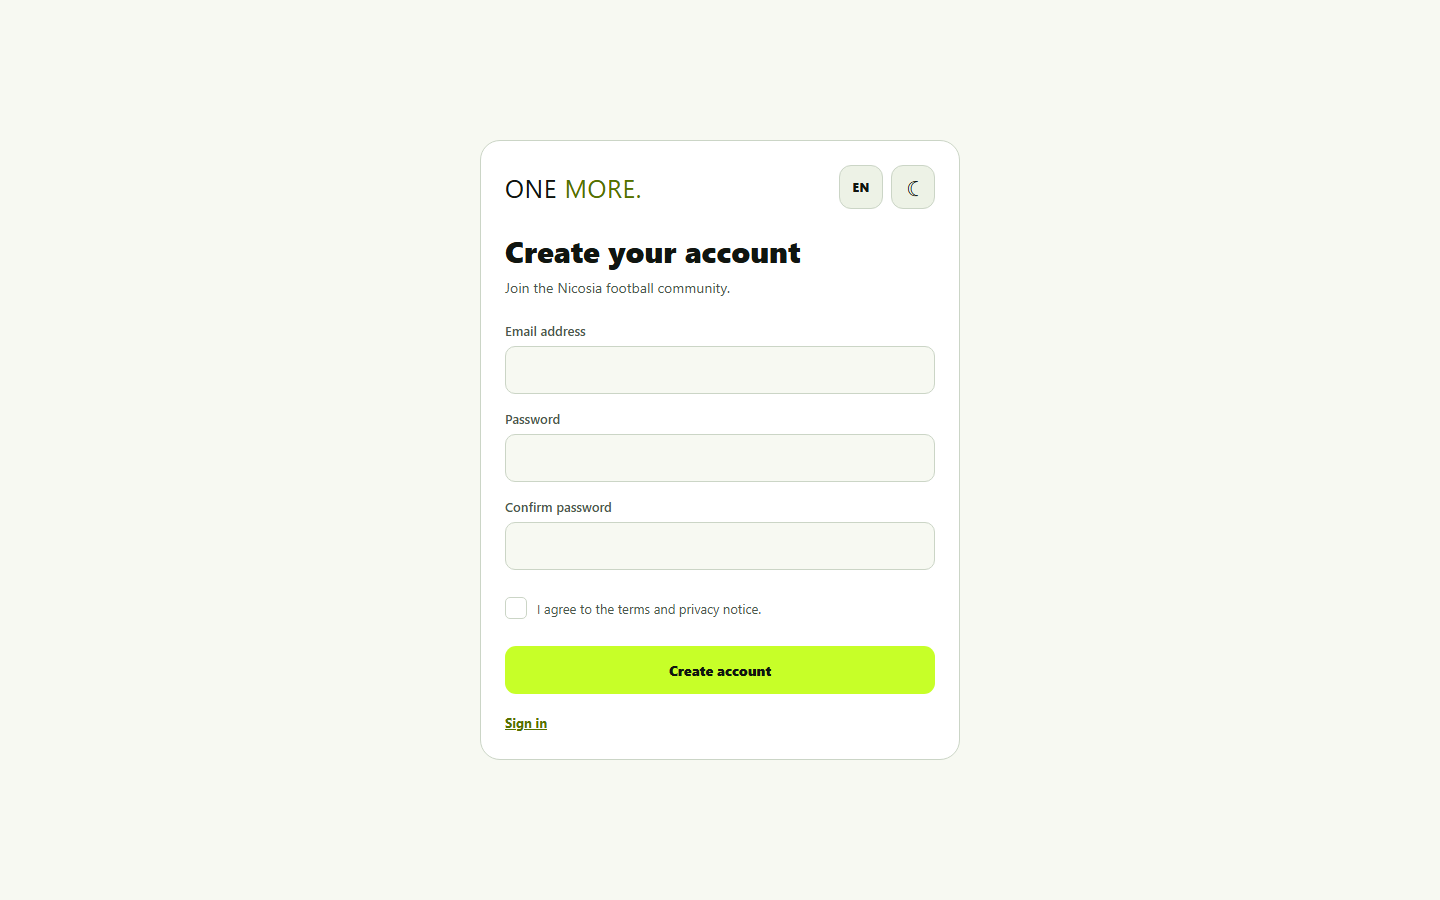
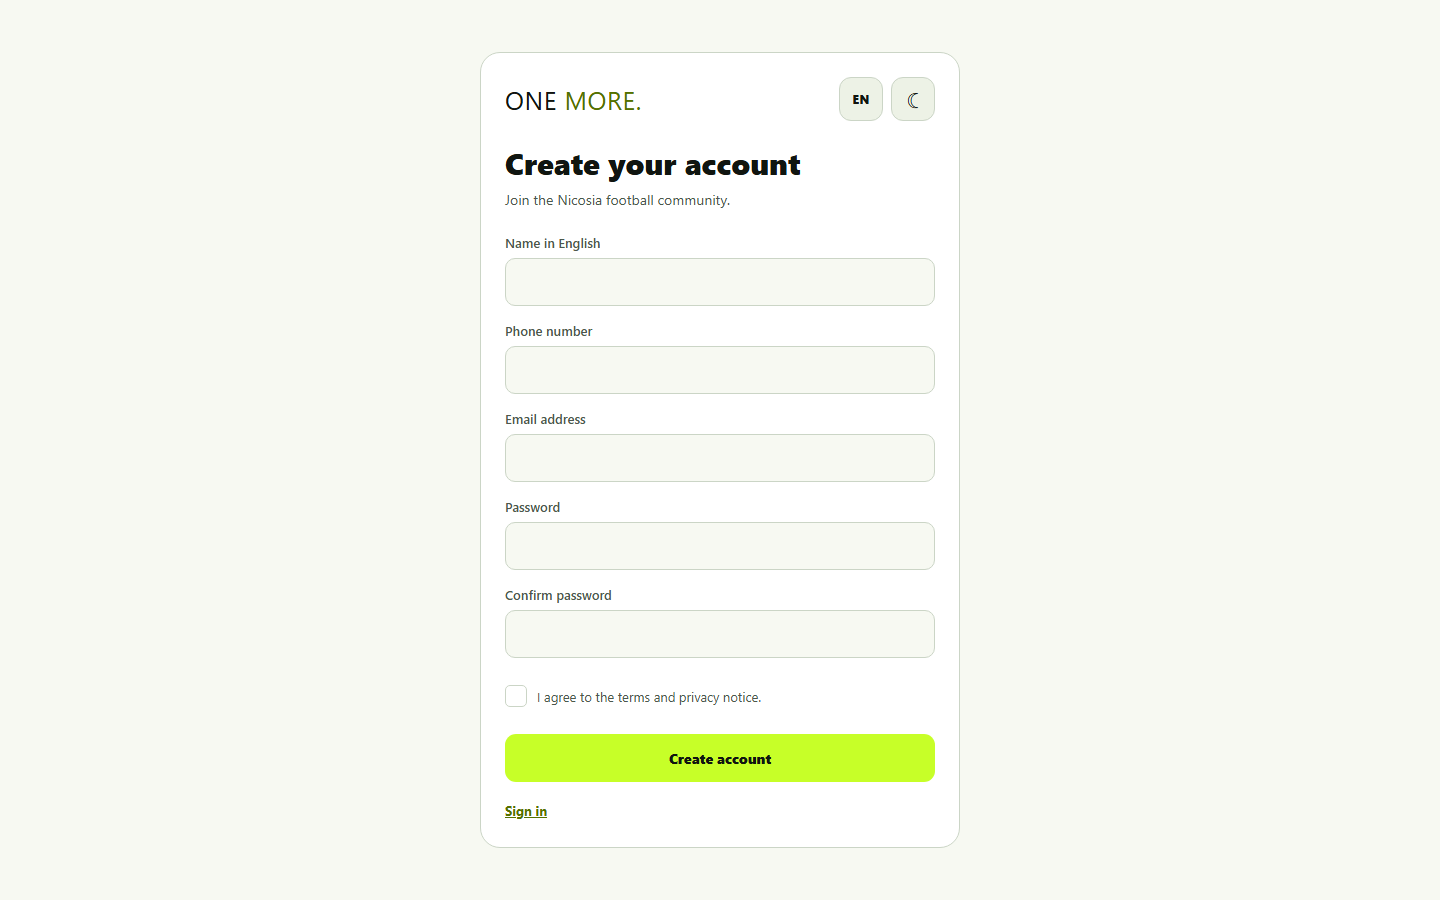
feat(auth): collect name and phone at signup

diff --git a/e2e/phase-03-auth.spec.ts b/e2e/phase-03-auth.spec.ts
@@ -7,9 +7,13 @@ test('signup shows validation and localized account creation form', async ({ pag
   await page.goto('/sign-up');
   await expect(page.getByRole('heading', { name: 'Create your account' })).toBeVisible();
   await page.getByRole('button', { name: 'Create account' }).click();
-  await expect(page.getByText('Enter a valid email address.')).toBeVisible();
+  await expect(
+    page.getByText('Enter a name in English between 2 and 40 characters.'),
+  ).toBeVisible();
   await page.getByRole('button', { name: 'Dismiss notification' }).click();
   await expect(page.getByLabel('Email address')).toBeVisible();
+  await expect(page.getByLabel('Name in English')).toBeVisible();
+  await expect(page.getByLabel('Phone number')).toBeVisible();
   await page.goto('/sign-in');
   const languageToggle = page.getByRole('button', { name: 'Switch language to Greek' });
   await expect(languageToggle).toContainText('EN');
@@ -20,8 +24,10 @@ test('signup shows validation and localized account creation form', async ({ pag
 });
 
 test('successful signup opens code verification with the resend cooldown', async ({ page }) => {
-  await page.route('**/auth/v1/signup**', (route) =>
-    route.fulfill({
+  let submittedMetadata: Record<string, unknown> | undefined;
+  await page.route('**/auth/v1/signup**', async (route) => {
+    submittedMetadata = route.request().postDataJSON().data;
+    await route.fulfill({
       status: 200,
       contentType: 'application/json',
       headers: { 'X-Supabase-Api-Version': '2024-01-01' },
@@ -38,15 +44,21 @@ test('successful signup opens code verification with the resend cooldown', async
         created_at: '2026-11-12T00:00:00Z',
         updated_at: '2026-11-12T00:00:00Z',
       }),
-    }),
-  );
+    });
+  });
   await page.goto('/sign-up');
+  await page.getByLabel('Name in English').fill('Player Example');
+  await page.getByLabel('Phone number').fill('+357 99 123456');
   await page.getByLabel('Email address').fill('player@example.invalid');
   await page.getByLabel('Password', { exact: true }).fill('safe-password-123');
   await page.getByLabel('Confirm password').fill('safe-password-123');
   await page.getByRole('checkbox', { name: 'I agree to the terms and privacy notice.' }).click();
   await page.getByRole('button', { name: 'Create account' }).click();
   await expect(page).toHaveURL(/\/verify-email\?/);
+  expect(submittedMetadata).toMatchObject({
+    display_name: 'Player Example',
+    phone: '+357 99 123456',
+  });
   const verificationUrl = new URL(page.url());
   expect(verificationUrl.searchParams.get('email')).toBe('player@example.invalid');
   const resendAfter = Number(verificationUrl.searchParams.get('resendAfter'));
@@ -142,7 +154,8 @@ test('a verified signup session continues to profile onboarding', async ({ page 
             ? { onboarding_complete: false }
             : {
                 id: userId,
-                display_name: null,
+                display_name: 'Player Example',
+                phone: '+357 99 123456',
                 avatar_path: null,
                 city_id: null,
                 area_id: null,
@@ -193,6 +206,7 @@ test('a verified signup session continues to profile onboarding', async ({ page 
   await page.getByRole('button', { name: 'Verify email' }).click();
   await expect(page).toHaveURL(/\/onboarding$/);
   await expect(page.getByRole('heading', { name: 'Build your player profile' })).toBeVisible();
+  await expect(page.getByLabel('Player name (English)')).toHaveValue('Player Example');
 });
 
 test('OTP resend observes a 60-second cooldown and resets it after a successful send', async ({
@@ -271,6 +285,8 @@ test('an existing account receives a sign-in hint instead of a generic error', a
     }),
   );
   await page.goto('/sign-up');
+  await page.getByLabel('Name in English').fill('Player Example');
+  await page.getByLabel('Phone number').fill('+357 99 123456');
   await page.getByLabel('Email address').fill('player@example.invalid');
   await page.getByLabel('Password', { exact: true }).fill('safe-password-123');
   await page.getByLabel('Confirm password').fill('safe-password-123');

diff --git a/src/i18n/el.ts b/src/i18n/el.ts
@@ -106,7 +106,7 @@ export const el = {
   profileOnboardingDescription: 'Πες στους παίκτες πού παίζεις και πότε είσαι διαθέσιμος.',
   profileRequiredStep: '1 · Στοιχεία παίκτη',
   profilePreferencesStep: '2 · Προτιμήσεις παιχνιδιού',
-  profileDisplayName: 'Όνομα παίκτη',
+  profileDisplayName: 'Όνομα παίκτη (στα αγγλικά)',
   profileCity: 'Πόλη',
   profileArea: 'Περιοχή',
   profilePosition: 'Προτιμώμενη θέση',
@@ -253,6 +253,8 @@ export const el = {
   authSignInDescription: 'Συνδέσου για να συνεχίσεις στο ONE MORE.',
   authSignUpTitle: 'Δημιουργία λογαριασμού',
   authSignUpDescription: 'Γίνε μέλος της ποδοσφαιρικής κοινότητας της Λευκωσίας.',
+  authName: 'Όνομα στα αγγλικά',
+  authPhone: 'Αριθμός τηλεφώνου',
   authEmail: 'Διεύθυνση email',
   authPassword: 'Κωδικός πρόσβασης',
   authConfirmPassword: 'Επιβεβαίωση κωδικού',
@@ -277,6 +279,10 @@ export const el = {
   authVerifyTitle: 'Έλεγξε το email σου',
   authVerifyDescription: 'Πληκτρολόγησε τον κωδικό που στάλθηκε στο email σου.',
   authEmailRequired: 'Πληκτρολόγησε έγκυρη διεύθυνση email.',
+  authNameRequired: 'Πληκτρολόγησε όνομα στα αγγλικά με 2 έως 40 χαρακτήρες.',
+  authNameEnglish: 'Χρησιμοποίησε αγγλικά γράμματα για το όνομά σου.',
+  authPhoneRequired: 'Πληκτρολόγησε τον αριθμό τηλεφώνου σου.',
+  authPhoneInvalid: 'Πληκτρολόγησε έγκυρο αριθμό με 7 έως 15 ψηφία.',
   authPasswordShort: 'Ο κωδικός πρέπει να έχει τουλάχιστον 8 χαρακτήρες.',
   authPasswordMismatch: 'Οι κωδικοί δεν ταιριάζουν.',
   authTermsRequired: 'Αποδέξου τους όρους για να δημιουργήσεις λογαριασμό.',

diff --git a/src/features/auth/auth-validation.test.ts b/src/features/auth/auth-validation.test.ts
@@ -6,6 +6,7 @@ import {
   safeReturnTo,
   validateEmail,
   validatePassword,
+  validatePhone,
   validateSignup,
 } from './auth-validation';
 
@@ -17,12 +18,37 @@ describe('auth input validation', () => {
     expect(validatePassword('short')).toBe(false);
   });
 
+  it('accepts an international phone number with 7 to 15 digits', () => {
+    expect(validatePhone('+357 99 123456')).toBe(true);
+    expect(validatePhone('123-4567')).toBe(true);
+    expect(validatePhone('123456')).toBe(false);
+    expect(validatePhone('12345abc')).toBe(false);
+  });
+
   it('reports signup errors in a stable order', () => {
-    expect(validateSignup('bad', 'short', 'different', false)).toBe('email');
-    expect(validateSignup('a@b.co', 'short', 'short', true)).toBe('password');
-    expect(validateSignup('a@b.co', 'long-pass', 'different', true)).toBe('passwordMismatch');
-    expect(validateSignup('a@b.co', 'long-pass', 'long-pass', false)).toBe('terms');
-    expect(validateSignup('a@b.co', 'long-pass', 'long-pass', true)).toBeNull();
+    expect(validateSignup('', '', 'bad', 'short', 'different', false)).toBe('displayName');
+    expect(validateSignup('Αλέξης', '', 'bad', 'short', 'different', false)).toBe(
+      'displayNameEnglish',
+    );
+    expect(validateSignup('Alex', '', 'bad', 'short', 'different', false)).toBe('phoneRequired');
+    expect(validateSignup('Alex', '123456', 'bad', 'short', 'different', false)).toBe(
+      'phoneInvalid',
+    );
+    expect(validateSignup('Alex', '+357 99 123456', 'bad', 'short', 'different', false)).toBe(
+      'email',
+    );
+    expect(validateSignup('Alex', '+357 99 123456', 'a@b.co', 'short', 'short', true)).toBe(
+      'password',
+    );
+    expect(validateSignup('Alex', '+357 99 123456', 'a@b.co', 'long-pass', 'different', true)).toBe(
+      'passwordMismatch',
+    );
+    expect(
+      validateSignup('Alex', '+357 99 123456', 'a@b.co', 'long-pass', 'long-pass', false),
+    ).toBe('terms');
+    expect(
+      validateSignup('Alex', '+357 99 123456', 'a@b.co', 'long-pass', 'long-pass', true),
+    ).toBeNull();
   });
 
   it('allows only app-local return paths', () => {

diff --git a/src/app/(auth)/sign-up.tsx b/src/app/(auth)/sign-up.tsx
@@ -22,15 +22,21 @@ export default function SignUpScreen() {
   const copy = translations[locale];
   const { isConfigured } = useAuth();
   const { showToast } = useToast();
+  const [displayName, setDisplayName] = useState('');
+  const [phone, setPhone] = useState('');
   const [email, setEmail] = useState('');
   const [password, setPassword] = useState('');
   const [confirmation, setConfirmation] = useState('');
   const [accepted, setAccepted] = useState(false);
   const [busy, setBusy] = useState(false);
   const submit = async () => {
-    const validation = validateSignup(email, password, confirmation, accepted);
+    const validation = validateSignup(displayName, phone, email, password, confirmation, accepted);
     if (validation) {
       const messages = {
+        displayName: copy.authNameRequired,
+        displayNameEnglish: copy.authNameEnglish,
+        phoneRequired: copy.authPhoneRequired,
+        phoneInvalid: copy.authPhoneInvalid,
         email: copy.authEmailRequired,
         password: copy.authPasswordShort,
         passwordMismatch: copy.authPasswordMismatch,
@@ -41,7 +47,7 @@ export default function SignUpScreen() {
     }
     setBusy(true);
     try {
-      const { error } = await signUpWithPassword(email, password);
+      const { error } = await signUpWithPassword(email, password, { displayName, phone });
       if (error) throw error;
       showToast(copy.authSignupPending, 'success');
       const resendAfter = Date.now() + 60_000;
@@ -57,6 +63,19 @@ export default function SignUpScreen() {
   return (
     <AuthPage title={copy.authSignUpTitle} description={copy.authSignUpDescription}>
       <View style={{ gap: 16 }}>
+        <AuthField
+          label={copy.authName}
+          value={displayName}
+          onChangeText={setDisplayName}
+          autoComplete="name"
+        />
+        <AuthField
+          label={copy.authPhone}
+          value={phone}
+          onChangeText={setPhone}
+          keyboardType="phone-pad"
+          autoComplete="tel"
+        />
         <AuthField
           label={copy.authEmail}
           value={email}

diff --git a/src/features/auth/auth-validation.ts b/src/features/auth/auth-validation.ts
@@ -1,4 +1,12 @@
-export type SignupValidationError = 'email' | 'password' | 'passwordMismatch' | 'terms';
+export type SignupValidationError =
+  | 'displayName'
+  | 'displayNameEnglish'
+  | 'phoneRequired'
+  | 'phoneInvalid'
+  | 'email'
+  | 'password'
+  | 'passwordMismatch'
+  | 'terms';
 export const emailOtpLength = 8;
 export type AuthToastMessageKey =
   | 'authInvalidCredentials'
@@ -55,16 +63,30 @@ export function validateEmail(email: string): boolean {
   return /^[^\s@]+@[^\s@]+\.[^\s@]+$/.test(email.trim());
 }
 
+export function validatePhone(phone: string): boolean {
+  const value = phone.trim();
+  const digits = value.replace(/\D/g, '');
+  return /^[+0-9 ()-]+$/.test(value) && digits.length >= 7 && digits.length <= 15;
+}
+
 export function validatePassword(password: string): boolean {
   return password.length >= 8;
 }
 
 export function validateSignup(
+  displayName: string,
+  phone: string,
   email: string,
   password: string,
   passwordConfirmation: string,
   termsAccepted: boolean,
 ): SignupValidationError | null {
+  const name = displayName.trim();
+  const nameLength = name.length;
+  if (nameLength < 2 || nameLength > 40) return 'displayName';
+  if (!/^[A-Za-z][A-Za-z .'-]*$/.test(name)) return 'displayNameEnglish';
+  if (!phone.trim()) return 'phoneRequired';
+  if (!validatePhone(phone)) return 'phoneInvalid';
   if (!validateEmail(email)) return 'email';
   if (!validatePassword(password)) return 'password';
   if (password !== passwordConfirmation) return 'passwordMismatch';

diff --git a/src/i18n/en.ts b/src/i18n/en.ts
@@ -105,7 +105,7 @@ export const en = {
   profileOnboardingDescription: 'Tell players where you play and when you are available.',
   profileRequiredStep: '1 · Player basics',
   profilePreferencesStep: '2 · Playing preferences',
-  profileDisplayName: 'Player name',
+  profileDisplayName: 'Player name (English)',
   profileCity: 'City',
   profileArea: 'Area',
   profilePosition: 'Preferred position',
@@ -252,6 +252,8 @@ export const en = {
   authSignInDescription: 'Sign in to continue to ONE MORE.',
   authSignUpTitle: 'Create your account',
   authSignUpDescription: 'Join the Nicosia football community.',
+  authName: 'Name in English',
+  authPhone: 'Phone number',
   authEmail: 'Email address',
   authPassword: 'Password',
   authConfirmPassword: 'Confirm password',
@@ -276,6 +278,10 @@ export const en = {
   authVerifyTitle: 'Check your email',
   authVerifyDescription: 'Enter the code sent to your email address.',
   authEmailRequired: 'Enter a valid email address.',
+  authNameRequired: 'Enter a name in English between 2 and 40 characters.',
+  authNameEnglish: 'Use English letters for your name.',
+  authPhoneRequired: 'Enter your phone number.',
+  authPhoneInvalid: 'Enter a valid phone number with 7 to 15 digits.',
   authPasswordShort: 'Use at least 8 characters for your password.',
   authPasswordMismatch: 'The passwords do not match.',
   authTermsRequired: 'Accept the terms to create an account.',

diff --git a/src/lib/database.types.ts b/src/lib/database.types.ts
@@ -836,6 +836,7 @@ export type Database = {
           id: string;
           language: string;
           onboarding_complete: boolean;
+          phone: string | null;
           preferred_position: string | null;
           skill_level: string | null;
           updated_at: string;
@@ -849,6 +850,7 @@ export type Database = {
           id: string;
           language?: string;
           onboarding_complete?: boolean;
+          phone?: string | null;
           preferred_position?: string | null;
           skill_level?: string | null;
           updated_at?: string;
@@ -862,6 +864,7 @@ export type Database = {
           id?: string;
           language?: string;
           onboarding_complete?: boolean;
+          phone?: string | null;
           preferred_position?: string | null;
           skill_level?: string | null;
           updated_at?: string;

diff --git a/src/features/auth/auth-service.ts b/src/features/auth/auth-service.ts
@@ -10,8 +10,21 @@ function passwordRecoveryRedirectUrl(): string {
   return Linking.createURL('reset-password');
 }
 
-export function signUpWithPassword(email: string, password: string) {
-  return getSupabaseClient().auth.signUp({ email: email.trim(), password });
+export function signUpWithPassword(
+  email: string,
+  password: string,
+  profile: { displayName: string; phone: string },
+) {
+  return getSupabaseClient().auth.signUp({
+    email: email.trim(),
+    password,
+    options: {
+      data: {
+        display_name: profile.displayName.trim(),
+        phone: profile.phone.trim(),
+      },
+    },
+  });
 }
 
 export function verifySignupOtp(email: string, token: string) {

diff --git a/src/components/auth/AuthPage.tsx b/src/components/auth/AuthPage.tsx
@@ -86,8 +86,9 @@ export function AuthField({
   label: string;
   value: string;
   onChangeText: (value: string) => void;
-  keyboardType?: 'default' | 'email-address' | 'number-pad';
-  autoComplete?: 'off' | 'email' | 'current-password' | 'new-password' | 'one-time-code';
+  keyboardType?: 'default' | 'email-address' | 'number-pad' | 'phone-pad';
+  autoComplete?:
+    'off' | 'email' | 'name' | 'tel' | 'current-password' | 'new-password' | 'one-time-code';
   secureTextEntry?: boolean;
   maxLength?: number;
   accessibilityHint?: string;

diff --git a/docs/IMPLEMENTATION_LOG.md b/docs/IMPLEMENTATION_LOG.md
@@ -474,3 +474,14 @@
 - **Security verification:** The temporary test password was random and not saved. No stored SMTP password or API key was read, printed, or modified. No test Auth user remains.
 - **Remaining issues:** Replace the invalid Resend SMTP credential with a valid credential, set the notification worker secrets, then repeat live signup and verify the OTP in the app.
 - **Next:** Continue Phase 03 after the Resend credential is available; do not mark real OTP delivery PASS until the code is received and verified.
+
+### 2026-11-13 — Phase 03 follow-up: collect English name and phone at signup
+
+- **Status:** PARTIAL — signup now collects and persists the English display name and private phone number; real OTP delivery remains blocked by the existing SMTP `535 Authentication credentials invalid` failure.
+- **Summary:** Added required signup fields for name in English and phone. English names accept 2–40 Latin letters with spaces, periods, apostrophes or hyphens; phone accepts 7–15 digits with common international formatting. Signup sends trimmed values as Auth metadata; the profile trigger validates and stores them in `profiles.display_name` and `profiles.phone`. Onboarding uses the existing display-name field, prefilled from the profile. Added database constraints and profile-only phone RLS-backed storage. Updated product, database, QA and phase docs.
+- **Changed files:** `src/app/(auth)/sign-up.tsx`, `src/components/auth/AuthPage.tsx`, `src/features/auth/auth-service.ts`, `src/features/auth/auth-validation.ts`, `src/features/auth/auth-validation.test.ts`, `src/i18n/en.ts`, `src/i18n/el.ts`, `src/lib/database.types.ts`, `e2e/phase-03-auth.spec.ts`, `supabase/migrations/20261113073004_signup_contact_details.sql`, `docs/01_PRODUCT_REQUIREMENTS.md`, `docs/03_ARCHITECTURE_DATABASE.md`, `docs/04_MASTER_EXECUTION_PLAN.md`, `docs/05_QA_TEST_MATRIX.md`, `docs/SCHEMA_OVERVIEW.md`, and signup screenshots in `docs/screenshots/phase-03/`.
+- **Checks:** `npm run lint` PASS (exit 0); `npm run typecheck` PASS (exit 0); `npm run test:run` PASS (7 files / 26 tests, exit 0); `npm run build:web` PASS (exit 0); `npx playwright test e2e/phase-03-auth.spec.ts --workers=1` PASS (22 tests across desktop and mobile Chromium, exit 0); `npm run format:check` PASS (exit 0); `git diff --check` PASS (exit 0). `npm run dev:web -- --port 8081` found the existing server already using port 8081; `http://localhost:8081/sign-up` returned HTTP 200.
+- **Browser verification:** Desktop and mobile Chromium E2E verified signup fields, validation, metadata submission and onboarding. Manual browser check at `http://localhost:8081/sign-up` confirmed the name and phone fields render; a Greek-script name shows the localized English-letter validation toast and does not submit. Browser console: 0 errors.
+- **Database/security verification:** Applied Supabase migration `20261113073004_signup_contact_details`; SQL confirmed `profiles.phone`, both constraints, and the owner-only profile read policy. `anon` has no SELECT privilege on `phone`; authenticated profile access remains limited by `auth.uid() = id` RLS. No public-schema RPC currently references `phone`. The project had zero users/profiles before migration, so no existing data needed backfill. Supabase security advisor still reports its existing public `pg_net` and exposed SECURITY DEFINER RPC warnings; this migration introduced no exposed RPC.
+- **Remaining issues:** Real signup/OTP still cannot pass until SMTP credentials are corrected; no email was sent or account created in this check. Existing Supabase advisor findings and unrelated release gates remain as previously logged.
+- **Next phase:** Phase 04 — not started; wait for the user's next phase instruction.

diff --git a/docs/04_MASTER_EXECUTION_PLAN.md b/docs/04_MASTER_EXECUTION_PLAN.md
@@ -59,7 +59,7 @@ and run relevant E2E/DB tests. Log actual results in
 
 **Goal:** Real Supabase connected, signup+email confirmation code and normal password login.
 
-**Tasks:** Setup local/staging Supabase; migration for profile trigger/safe profile lifecycle; Supabase client singleton, env validation; signup with email/password, verified email OTP using Confirm Signup template `{{ .Token }}`; `verifyOtp` correct type tested for installed SDK; resend cooldown, password login, reset password, signout; session state route guards. Storage per platform; no secrets in frontend; custom SMTP/test email provider or local mail test tool. Add password validation, user-friendly verification errors.
+**Tasks:** Setup local/staging Supabase; migration for profile trigger/safe profile lifecycle; Supabase client singleton, env validation; signup with English name and private phone plus email/password, verified email OTP using Confirm Signup template `{{ .Token }}`; `verifyOtp` correct type tested for installed SDK; resend cooldown, password login, reset password, signout; session state route guards. Storage per platform; no secrets in frontend; custom SMTP/test email provider or local mail test tool. Add password validation, user-friendly verification errors.
 
 **Gate:** Real test inbox or local Auth mail catcher receives code, signup only reaches protected screen after verification, invalid/expired code fails, login/logout/refresh and forgot password tested on Web. Backend denies unauthorized protected data. If SMTP/keys unavailable, report BLOCKED for end-to-end email (do not call success).
 
@@ -67,7 +67,7 @@ and run relevant E2E/DB tests. Log actual results in
 
 **Goal:** Real persistent profile, language/preferences and city selection.
 
-**Tasks:** Migrations: profiles, cities, areas, user_preferences, notification_preferences. Seed verified initial Nicosia areas (no fictional venue addresses), protected CRUD and RLS. Screens: required name/city/area; optional position/skill/game formats/availability; edit profile and settings; avatar placeholder. Auth route guards account for incomplete profile.
+**Tasks:** Migrations: profiles, cities, areas, user_preferences, notification_preferences. Seed verified initial Nicosia areas (no fictional venue addresses), protected CRUD and RLS. Screens: prefilled English name plus required city/area; optional position/skill/game formats/availability; edit profile and settings; avatar placeholder. Auth route guards account for incomplete profile.
 
 **Gate:** Two test accounts each see own private preferences; forbidden update of other's profile; refresh persistence; profile completion and validation, EN/EL, Dark/Light, both viewport widths.
 

diff --git a/docs/03_ARCHITECTURE_DATABASE.md b/docs/03_ARCHITECTURE_DATABASE.md
@@ -58,7 +58,7 @@ IDs default `uuid`; use `created_at`, `updated_at` timestamptz; enforce `NOT NUL
 
 | Table | Essential fields / notes |
 |---|---|
-| `profiles` | `id uuid PK FK auth.users`, display_name, avatar_path, city_id, area_id, position, skill_level, language, onboarding_complete, created_at |
+| `profiles` | `id uuid PK FK auth.users`, English display_name, private phone, avatar_path, city_id, area_id, position, skill_level, language, onboarding_complete, created_at |
 | `cities` | id, name_en, name_el, country_code; start with Cyprus verified place data |
 | `areas` | id, city_id, name_en, name_el, optional coords |
 | `venues` | id, name, city_id, area_id, address, latitude, longitude, created_by; manually entered or verified curated |
@@ -91,7 +91,7 @@ IDs default `uuid`; use `created_at`, `updated_at` timestamptz; enforce `NOT NUL
 
 ### Essential constraints/indexes
 
-- FK `profiles.id -> auth.users.id` with safe deletion process.
+- FK `profiles.id -> auth.users.id` with safe deletion process. Profile RLS limits row access to its owner; phone numbers are not returned from public RPCs.
 - `side_size IN (5,7,8,11)`; `duration_minutes BETWEEN 30 AND 240`; `reserved_guest_slots >= 0`; price >= 0.
 - One active membership per (`team_id`, `user_id`), one active participant per (`match_id`, `user_id`), one pending request per (`match_id`, `user_id`), one waiting/offered queue item per (`match_id`, `user_id`).
 - Index `(city_id, starts_at, event_status)` on `matches`, `(match_id, created_at)` on messages; `(recipient_id, created_at DESC)` notifications; `(status, expires_at)` offers.
